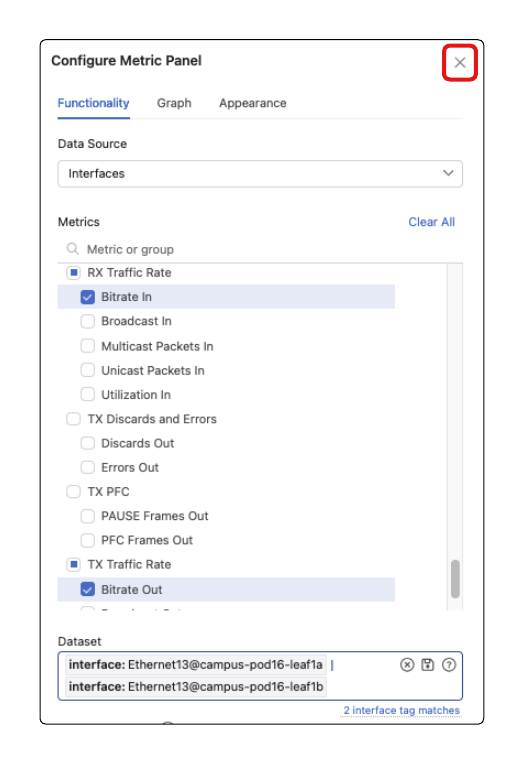
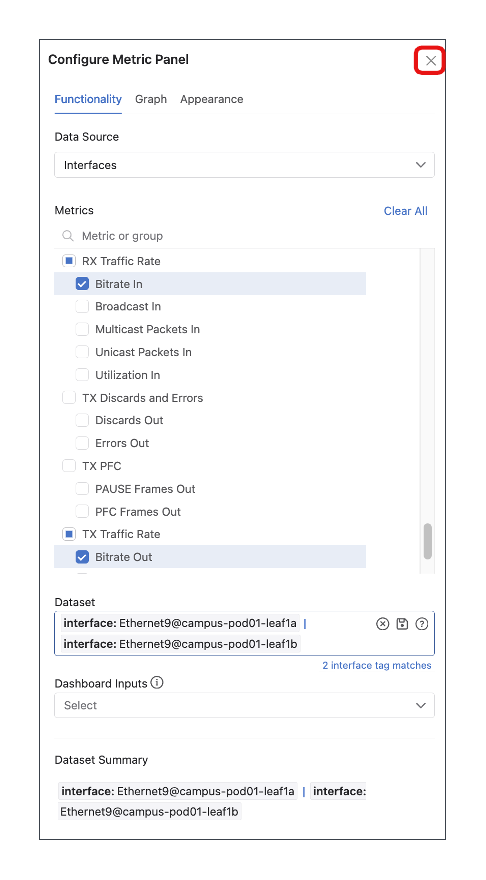
A-03 Updates

Changed region(s): [[0.0617, 0.0301, 0.9259, 0.9634], [0.7716, 0.2107, 0.8642, 0.301]]

diff --git a/Campus/HI_2026_Campus_Workshop/A-03/2026_Campus_A-03_Wired_Lab_Guide.md b/Campus/HI_2026_Campus_Workshop/A-03/2026_Campus_A-03_Wired_Lab_Guide.md
@@ -355,7 +355,7 @@ Dashboards are an important way to visualize commonly requested information. Thi
 
 10. Additional Dashboard Tile
     - Under the available metrics scroll down and locate **Bitrate In** and **Bitrate Out**
-    - Under Dataset select **Ethernet13** on both **leaf1a and leaf1b**. Ensure between each interface you include a **|** or an **OR** so that both interface will be displayed.
+    - Under Dataset select **Ethernet9** on both **leaf1a and leaf1b**. Ensure between each interface you include a **|** or an **OR** so that both interface will be displayed.
 
 ![Metrics Configure](images/metrics-configure5.png)
 
